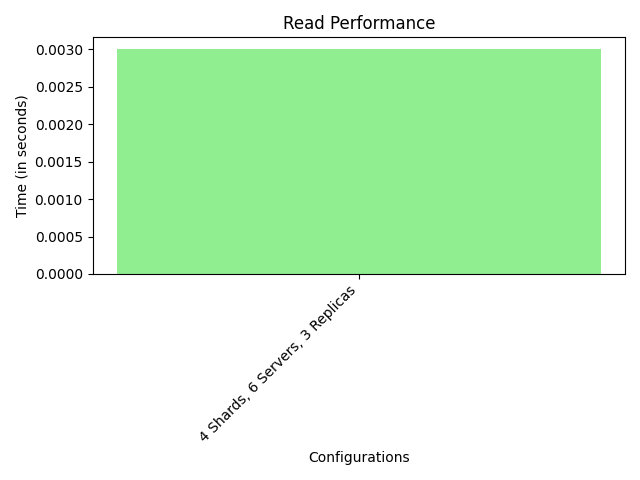
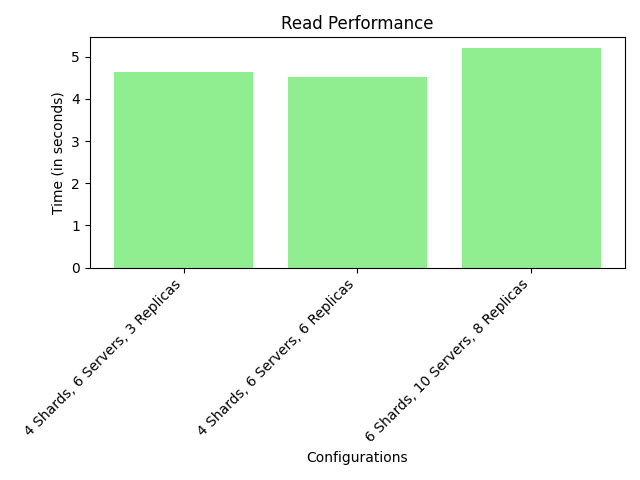
minor readme changes

diff --git a/README.md b/README.md
@@ -56,24 +56,24 @@ Below are the results showing the read and write times for each configuration. T
 
 ### Configuration 1: 4 Shards, 6 Servers, 3 Replicas
 
-- Write Time: 19.669931411743164 seconds
-- Read Time: 46.548974 seconds
+- Write Time: 4.9483 seconds
+- Read Time: 4.6262 seconds
 
 
 ### Configuration 2: 4 Shards, 6 Servers, 6 Replicas
 
-- Write Time: 19.338212728500366 seconds
-- Read Time: 45.148845 seconds
+- Write Time: 3.4371 seconds
+- Read Time: 4.5262 seconds
 
 
 ### Configuration 3: 6 Shards, 10 Servers, 8 Replicas
 
-- Write Time: 27.32351040840149 seconds
-- Read Time: 44.686055 seconds
+- Write Time: 4.8064 seconds
+- Read Time: 5.1971 seconds
 
 
 
 ### Combined:
 
-![Write Performance for Configuration 3](testing/images/A3_write_perf.png)
-![Read Performance for Configuration 3](testing/images/A3_read_perf.png)
+![Write Performance for Configuration 3](testing/images/write_1.png)
+![Read Performance for Configuration 3](testing/images/read_1.png)
